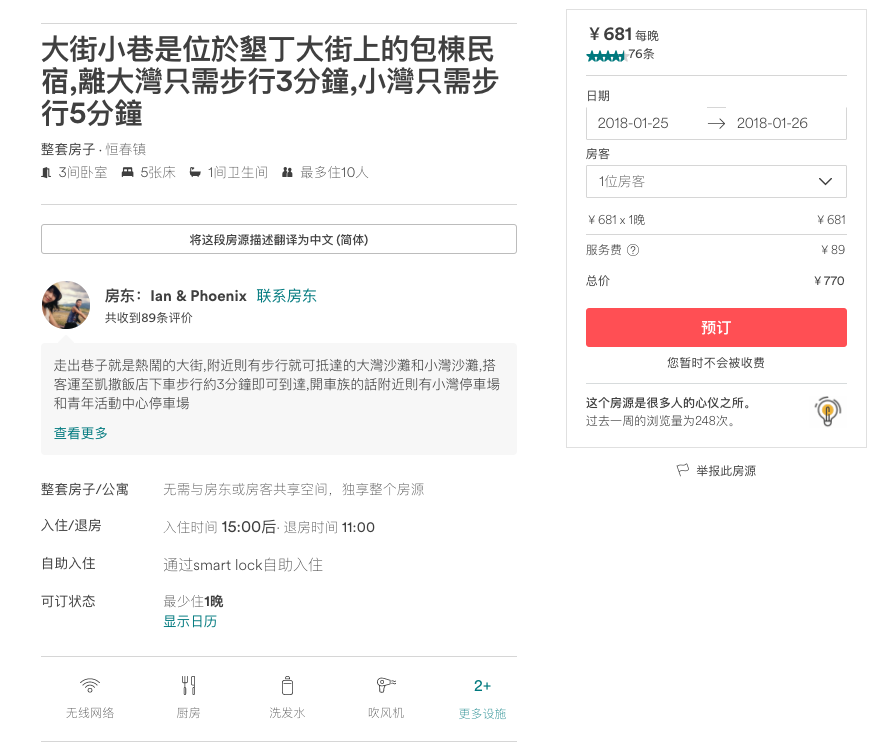
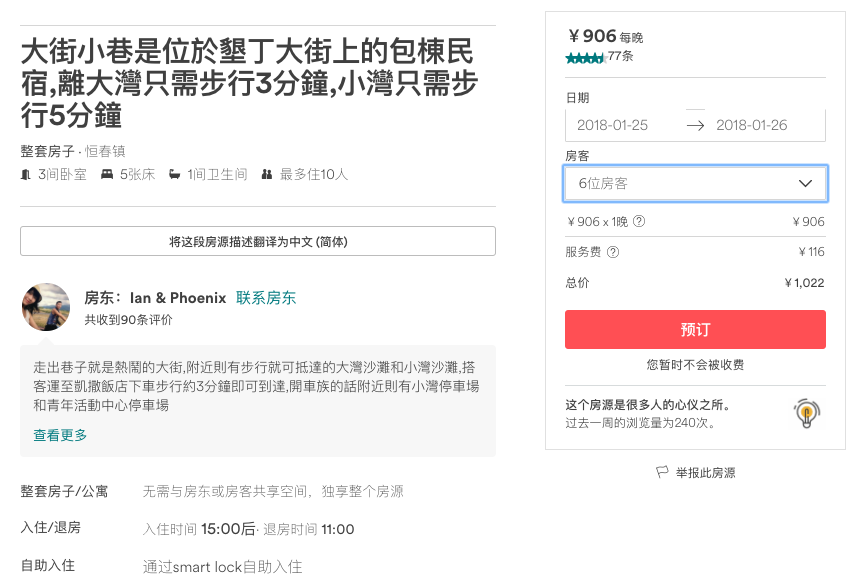
Site updated: 2017-12-08 17:31:13

diff --git a/2017/12/08/taiwan/index.html b/2017/12/08/taiwan/index.html
@@ -112,7 +112,7 @@
 <meta property="og:image" content="http://yoursite.com/images/taiwan/tb1.png">
 <meta property="og:image" content="http://yoursite.com/images/taiwan/tb2.png">
 <meta property="og:image" content="http://yoursite.com/images/taiwan/tb3.png">
-<meta property="og:updated_time" content="2017-12-08T09:25:55.322Z">
+<meta property="og:updated_time" content="2017-12-08T09:30:54.050Z">
 <meta name="twitter:card" content="summary">
 <meta name="twitter:title" content="台湾酒店，大家挑一下">
 <meta name="twitter:description" content="感觉用写成PDF你们不一定会看，所以把所有旅店的信息都写到博客里了，这样方便一点。  每个酒店的截图下面有个超链接，可以直接点进去看酒店信息，务必点一下  台北 1.22~1.23之前在Airbnb上看的那个386的民宿被预定了，所以霄哥找了台北车站附近的旅店。 台北01 价格494 台北01 台北02 价格615 台北02 九份 1.23~1.24九份的民宿都比较贵 九份1 价格1172 九份1">
@@ -471,7 +471,7 @@
 <p><a href="https://www.booking.com/hotel/tw/kenting-bethlehem.zh-cn.html?aid=391337;label=hotel-354255_nrm-01_gstadt-06_gstkid-00_logid-20174022883069;sid=1098765dba1662ab4ddf7f7a98bf0f18;all_sr_blocks=35425510_89145031_0_1_0;checkin=2018-01-25;checkout=2018-01-26;dest_id=-2634978;dest_type=city;dist=0;group_adults=6;group_children=0;hapos=1;highlighted_blocks=35425510_89145031_0_1_0;hpos=1;no_rooms=1;req_adults=6;req_children=0;room1=A%2CA%2CA%2CA%2CA%2CA%2C;sb_price_type=total;show_room=35425510;srepoch=1512703683;srfid=f02044107aaa883b067ba69293a200837d1dbe8fX1;srpvid=c6771860a77003e9;type=total;ucfs=1&amp;#hotelTmpl" target="_blank" rel="noopener">垦丁1</a></p>
 <h4 id="垦丁2-价格1004"><a href="#垦丁2-价格1004" class="headerlink" title="垦丁2 价格1004"></a>垦丁2 价格1004</h4><p><img src="/images/taiwan/kending2.png" alt=""></p>
 <p><a href="http://www.mafengwo.cn/hotel_zx/hotel/index.php?iId=182569&amp;sRoom=6&amp;ref=detail&amp;price=1304&amp;ota=youyu_pkg&amp;iOtaId=9&amp;sLabel=20174022885289&amp;sCheckIn=2018-01-27&amp;sCheckOut=2018-01-28#rooms_selector=undefined&amp;checkin=2018-01-25&amp;checkout=2018-01-26" target="_blank" rel="noopener">垦丁2</a></p>
-<h4 id="垦丁3-价格770"><a href="#垦丁3-价格770" class="headerlink" title="垦丁3 价格770"></a>垦丁3 价格770</h4><p><img src="/images/taiwan/kending3.png" alt=""></p>
+<h4 id="垦丁3-价格1022"><a href="#垦丁3-价格1022" class="headerlink" title="垦丁3 价格1022"></a>垦丁3 价格1022</h4><p><img src="/images/taiwan/kending3.png" alt=""></p>
 <p><a href="https://zh.airbnb.com/rooms/5375828?wl_source=list&amp;wl_id=250493588&amp;role=wishlist_owner&amp;adults=1&amp;check_in=2018-01-25&amp;guests=1&amp;check_out=2018-01-26" target="_blank" rel="noopener">垦丁3</a></p>
 <h2 id="垦丁-1-26-1-27-住海生馆"><a href="#垦丁-1-26-1-27-住海生馆" class="headerlink" title="垦丁 1.26~1.27 住海生馆"></a>垦丁 1.26~1.27 住海生馆</h2><h2 id="垦丁-1-27-1-28-和上面的一样"><a href="#垦丁-1-27-1-28-和上面的一样" class="headerlink" title="垦丁 1.27~1.28 和上面的一样"></a>垦丁 1.27~1.28 和上面的一样</h2><p>但是大部分酒店民宿都贵了很多 那个770的没有1.27~1.28 需要再找<br>基本上每家民宿都比1.25那天要贵个4、500 = =</p>
 <h4 id="垦丁4-价格844"><a href="#垦丁4-价格844" class="headerlink" title="垦丁4 价格844"></a>垦丁4 价格844</h4><p><img src="/images/taiwan/kending4.png" alt=""></p>
@@ -678,7 +678,7 @@
             
 
             
-              <div class="post-toc-content"><ol class="nav"><li class="nav-item nav-level-2"><a class="nav-link" href="#台北-1-22-1-23"><span class="nav-number">1.</span> <span class="nav-text">台北 1.22~1.23</span></a><ol class="nav-child"><li class="nav-item nav-level-4"><a class="nav-link" href="#台北01-价格494"><span class="nav-number">1.0.1.</span> <span class="nav-text">台北01 价格494</span></a></li><li class="nav-item nav-level-4"><a class="nav-link" href="#台北02-价格615"><span class="nav-number">1.0.2.</span> <span class="nav-text">台北02 价格615</span></a></li></ol></li></ol></li><li class="nav-item nav-level-2"><a class="nav-link" href="#九份-1-23-1-24"><span class="nav-number">2.</span> <span class="nav-text">九份 1.23~1.24</span></a><ol class="nav-child"><li class="nav-item nav-level-4"><a class="nav-link" href="#九份1-价格1172"><span class="nav-number">2.0.1.</span> <span class="nav-text">九份1 价格1172</span></a></li><li class="nav-item nav-level-4"><a class="nav-link" href="#九份2-价格1002"><span class="nav-number">2.0.2.</span> <span class="nav-text">九份2 价格1002</span></a></li><li class="nav-item nav-level-4"><a class="nav-link" href="#九份3-价格872"><span class="nav-number">2.0.3.</span> <span class="nav-text">九份3 价格872</span></a></li><li class="nav-item nav-level-4"><a class="nav-link" href="#九份4-价格725-765"><span class="nav-number">2.0.4.</span> <span class="nav-text">九份4 价格725/765</span></a></li><li class="nav-item nav-level-4"><a class="nav-link" href="#九份5-价格1097"><span class="nav-number">2.0.5.</span> <span class="nav-text">九份5 价格1097</span></a></li></ol></li></ol></li><li class="nav-item nav-level-2"><a class="nav-link" href="#花莲-1-24-1-25"><span class="nav-number">3.</span> <span class="nav-text">花莲 1.24~1.25</span></a><ol class="nav-child"><li class="nav-item nav-level-4"><a class="nav-link" href="#花莲1-价格988"><span class="nav-number">3.0.1.</span> <span class="nav-text">花莲1 价格988</span></a></li><li class="nav-item nav-level-4"><a class="nav-link" href="#花莲2-价格764"><span class="nav-number">3.0.2.</span> <span class="nav-text">花莲2 价格764</span></a></li><li class="nav-item nav-level-4"><a class="nav-link" href="#花莲3-价格893"><span class="nav-number">3.0.3.</span> <span class="nav-text">花莲3 价格893</span></a></li><li class="nav-item nav-level-4"><a class="nav-link" href="#花莲4-价格872"><span class="nav-number">3.0.4.</span> <span class="nav-text">花莲4 价格872</span></a></li></ol></li></ol></li><li class="nav-item nav-level-2"><a class="nav-link" href="#垦丁-1-25-1-26"><span class="nav-number">4.</span> <span class="nav-text">垦丁 1.25~1.26</span></a><ol class="nav-child"><li class="nav-item nav-level-4"><a class="nav-link" href="#垦丁1-价格1192"><span class="nav-number">4.0.1.</span> <span class="nav-text">垦丁1 价格1192</span></a></li><li class="nav-item nav-level-4"><a class="nav-link" href="#垦丁2-价格1004"><span class="nav-number">4.0.2.</span> <span class="nav-text">垦丁2 价格1004</span></a></li><li class="nav-item nav-level-4"><a class="nav-link" href="#垦丁3-价格770"><span class="nav-number">4.0.3.</span> <span class="nav-text">垦丁3 价格770</span></a></li></ol></li></ol></li><li class="nav-item nav-level-2"><a class="nav-link" href="#垦丁-1-26-1-27-住海生馆"><span class="nav-number">5.</span> <span class="nav-text">垦丁 1.26~1.27 住海生馆</span></a></li><li class="nav-item nav-level-2"><a class="nav-link" href="#垦丁-1-27-1-28-和上面的一样"><span class="nav-number">6.</span> <span class="nav-text">垦丁 1.27~1.28 和上面的一样</span></a><ol class="nav-child"><li class="nav-item nav-level-4"><a class="nav-link" href="#垦丁4-价格844"><span class="nav-number">6.0.1.</span> <span class="nav-text">垦丁4 价格844</span></a></li><li class="nav-item nav-level-4"><a class="nav-link" href="#垦丁5-价格1274"><span class="nav-number">6.0.2.</span> <span class="nav-text">垦丁5 价格1274</span></a></li><li class="nav-item nav-level-4"><a class="nav-link" href="#垦丁6-价格1315（1-27-1-28）1096（1-25-1-26）"><span class="nav-number">6.0.3.</span> <span class="nav-text">垦丁6 价格1315（1.27~1.28）1096（1.25~1.26）</span></a></li><li class="nav-item nav-level-4"><a class="nav-link" href="#垦丁7-价格1183（1-27-1，28）-920（1-25-1-26）"><span class="nav-number">6.0.4.</span> <span class="nav-text">垦丁7 价格1183（1.27~1，28） 920（1.25~1.26）</span></a></li><li class="nav-item nav-level-4"><a class="nav-link" href="#垦丁8-价格1055（1-27-1-28）642（1-25-1-26）"><span class="nav-number">6.0.5.</span> <span class="nav-text">垦丁8 价格1055（1.27~1.28）642（1.25~1.26）</span></a></li></ol></li></ol></li><li class="nav-item nav-level-2"><a class="nav-link" href="#高雄-1-28-1-29"><span class="nav-number">7.</span> <span class="nav-text">高雄 1.28~1.29</span></a><ol class="nav-child"><li class="nav-item nav-level-4"><a class="nav-link" href="#高雄1-价格784"><span class="nav-number">7.0.1.</span> <span class="nav-text">高雄1 价格784</span></a></li><li class="nav-item nav-level-4"><a class="nav-link" href="#高雄2-价格484"><span class="nav-number">7.0.2.</span> <span class="nav-text">高雄2 价格484</span></a></li><li class="nav-item nav-level-4"><a class="nav-link" href="#高雄3-价格635"><span class="nav-number">7.0.3.</span> <span class="nav-text">高雄3 价格635</span></a></li></ol></li></ol></li><li class="nav-item nav-level-2"><a class="nav-link" href="#台北-1-29-1-31"><span class="nav-number">8.</span> <span class="nav-text">台北 1.29~1.31</span></a><ol class="nav-child"><li class="nav-item nav-level-4"><a class="nav-link" href="#台北11-价格1526"><span class="nav-number">8.0.1.</span> <span class="nav-text">台北11 价格1526</span></a></li><li class="nav-item nav-level-4"><a class="nav-link" href="#台北12-价格2071"><span class="nav-number">8.0.2.</span> <span class="nav-text">台北12 价格2071</span></a></li><li class="nav-item nav-level-4"><a class="nav-link" href="#台北13-价格1506"><span class="nav-number">8.0.3.</span> <span class="nav-text">台北13 价格1506</span></a></li></ol></li></ol></li></ol></div>
+              <div class="post-toc-content"><ol class="nav"><li class="nav-item nav-level-2"><a class="nav-link" href="#台北-1-22-1-23"><span class="nav-number">1.</span> <span class="nav-text">台北 1.22~1.23</span></a><ol class="nav-child"><li class="nav-item nav-level-4"><a class="nav-link" href="#台北01-价格494"><span class="nav-number">1.0.1.</span> <span class="nav-text">台北01 价格494</span></a></li><li class="nav-item nav-level-4"><a class="nav-link" href="#台北02-价格615"><span class="nav-number">1.0.2.</span> <span class="nav-text">台北02 价格615</span></a></li></ol></li></ol></li><li class="nav-item nav-level-2"><a class="nav-link" href="#九份-1-23-1-24"><span class="nav-number">2.</span> <span class="nav-text">九份 1.23~1.24</span></a><ol class="nav-child"><li class="nav-item nav-level-4"><a class="nav-link" href="#九份1-价格1172"><span class="nav-number">2.0.1.</span> <span class="nav-text">九份1 价格1172</span></a></li><li class="nav-item nav-level-4"><a class="nav-link" href="#九份2-价格1002"><span class="nav-number">2.0.2.</span> <span class="nav-text">九份2 价格1002</span></a></li><li class="nav-item nav-level-4"><a class="nav-link" href="#九份3-价格872"><span class="nav-number">2.0.3.</span> <span class="nav-text">九份3 价格872</span></a></li><li class="nav-item nav-level-4"><a class="nav-link" href="#九份4-价格725-765"><span class="nav-number">2.0.4.</span> <span class="nav-text">九份4 价格725/765</span></a></li><li class="nav-item nav-level-4"><a class="nav-link" href="#九份5-价格1097"><span class="nav-number">2.0.5.</span> <span class="nav-text">九份5 价格1097</span></a></li></ol></li></ol></li><li class="nav-item nav-level-2"><a class="nav-link" href="#花莲-1-24-1-25"><span class="nav-number">3.</span> <span class="nav-text">花莲 1.24~1.25</span></a><ol class="nav-child"><li class="nav-item nav-level-4"><a class="nav-link" href="#花莲1-价格988"><span class="nav-number">3.0.1.</span> <span class="nav-text">花莲1 价格988</span></a></li><li class="nav-item nav-level-4"><a class="nav-link" href="#花莲2-价格764"><span class="nav-number">3.0.2.</span> <span class="nav-text">花莲2 价格764</span></a></li><li class="nav-item nav-level-4"><a class="nav-link" href="#花莲3-价格893"><span class="nav-number">3.0.3.</span> <span class="nav-text">花莲3 价格893</span></a></li><li class="nav-item nav-level-4"><a class="nav-link" href="#花莲4-价格872"><span class="nav-number">3.0.4.</span> <span class="nav-text">花莲4 价格872</span></a></li></ol></li></ol></li><li class="nav-item nav-level-2"><a class="nav-link" href="#垦丁-1-25-1-26"><span class="nav-number">4.</span> <span class="nav-text">垦丁 1.25~1.26</span></a><ol class="nav-child"><li class="nav-item nav-level-4"><a class="nav-link" href="#垦丁1-价格1192"><span class="nav-number">4.0.1.</span> <span class="nav-text">垦丁1 价格1192</span></a></li><li class="nav-item nav-level-4"><a class="nav-link" href="#垦丁2-价格1004"><span class="nav-number">4.0.2.</span> <span class="nav-text">垦丁2 价格1004</span></a></li><li class="nav-item nav-level-4"><a class="nav-link" href="#垦丁3-价格1022"><span class="nav-number">4.0.3.</span> <span class="nav-text">垦丁3 价格1022</span></a></li></ol></li></ol></li><li class="nav-item nav-level-2"><a class="nav-link" href="#垦丁-1-26-1-27-住海生馆"><span class="nav-number">5.</span> <span class="nav-text">垦丁 1.26~1.27 住海生馆</span></a></li><li class="nav-item nav-level-2"><a class="nav-link" href="#垦丁-1-27-1-28-和上面的一样"><span class="nav-number">6.</span> <span class="nav-text">垦丁 1.27~1.28 和上面的一样</span></a><ol class="nav-child"><li class="nav-item nav-level-4"><a class="nav-link" href="#垦丁4-价格844"><span class="nav-number">6.0.1.</span> <span class="nav-text">垦丁4 价格844</span></a></li><li class="nav-item nav-level-4"><a class="nav-link" href="#垦丁5-价格1274"><span class="nav-number">6.0.2.</span> <span class="nav-text">垦丁5 价格1274</span></a></li><li class="nav-item nav-level-4"><a class="nav-link" href="#垦丁6-价格1315（1-27-1-28）1096（1-25-1-26）"><span class="nav-number">6.0.3.</span> <span class="nav-text">垦丁6 价格1315（1.27~1.28）1096（1.25~1.26）</span></a></li><li class="nav-item nav-level-4"><a class="nav-link" href="#垦丁7-价格1183（1-27-1，28）-920（1-25-1-26）"><span class="nav-number">6.0.4.</span> <span class="nav-text">垦丁7 价格1183（1.27~1，28） 920（1.25~1.26）</span></a></li><li class="nav-item nav-level-4"><a class="nav-link" href="#垦丁8-价格1055（1-27-1-28）642（1-25-1-26）"><span class="nav-number">6.0.5.</span> <span class="nav-text">垦丁8 价格1055（1.27~1.28）642（1.25~1.26）</span></a></li></ol></li></ol></li><li class="nav-item nav-level-2"><a class="nav-link" href="#高雄-1-28-1-29"><span class="nav-number">7.</span> <span class="nav-text">高雄 1.28~1.29</span></a><ol class="nav-child"><li class="nav-item nav-level-4"><a class="nav-link" href="#高雄1-价格784"><span class="nav-number">7.0.1.</span> <span class="nav-text">高雄1 价格784</span></a></li><li class="nav-item nav-level-4"><a class="nav-link" href="#高雄2-价格484"><span class="nav-number">7.0.2.</span> <span class="nav-text">高雄2 价格484</span></a></li><li class="nav-item nav-level-4"><a class="nav-link" href="#高雄3-价格635"><span class="nav-number">7.0.3.</span> <span class="nav-text">高雄3 价格635</span></a></li></ol></li></ol></li><li class="nav-item nav-level-2"><a class="nav-link" href="#台北-1-29-1-31"><span class="nav-number">8.</span> <span class="nav-text">台北 1.29~1.31</span></a><ol class="nav-child"><li class="nav-item nav-level-4"><a class="nav-link" href="#台北11-价格1526"><span class="nav-number">8.0.1.</span> <span class="nav-text">台北11 价格1526</span></a></li><li class="nav-item nav-level-4"><a class="nav-link" href="#台北12-价格2071"><span class="nav-number">8.0.2.</span> <span class="nav-text">台北12 价格2071</span></a></li><li class="nav-item nav-level-4"><a class="nav-link" href="#台北13-价格1506"><span class="nav-number">8.0.3.</span> <span class="nav-text">台北13 价格1506</span></a></li></ol></li></ol></li></ol></div>
             
 
           </div>

diff --git a/css/main.css b/css/main.css
@@ -1823,7 +1823,7 @@ pre .javascript .function {
   width: 4px;
   height: 4px;
   border-radius: 50%;
-  background: #c4db53;
+  background: #24ff0e;
 }
 .links-of-blogroll {
   font-size: 13px;
